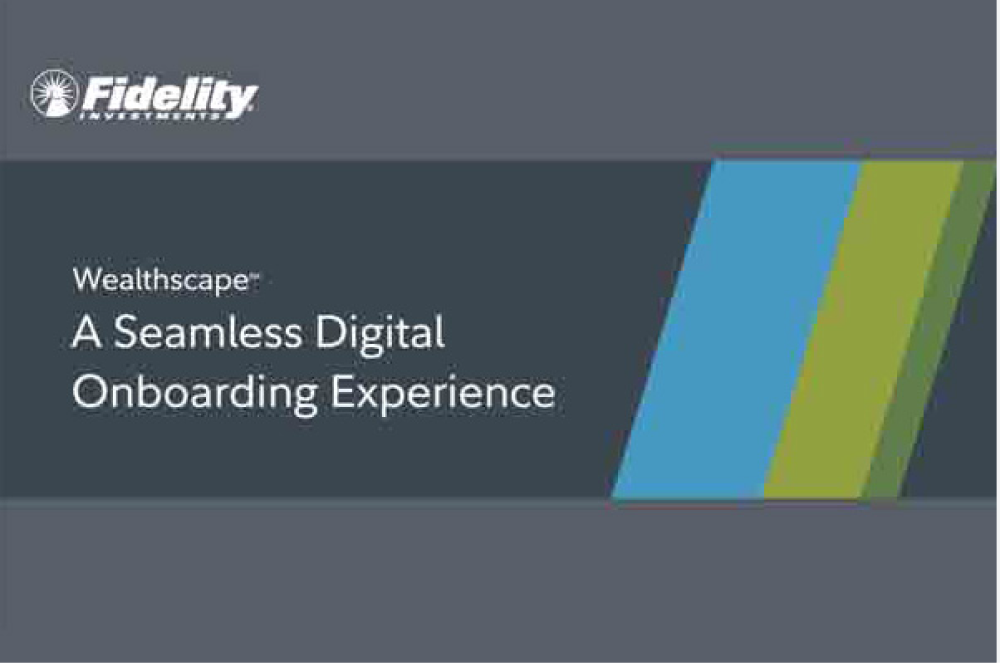
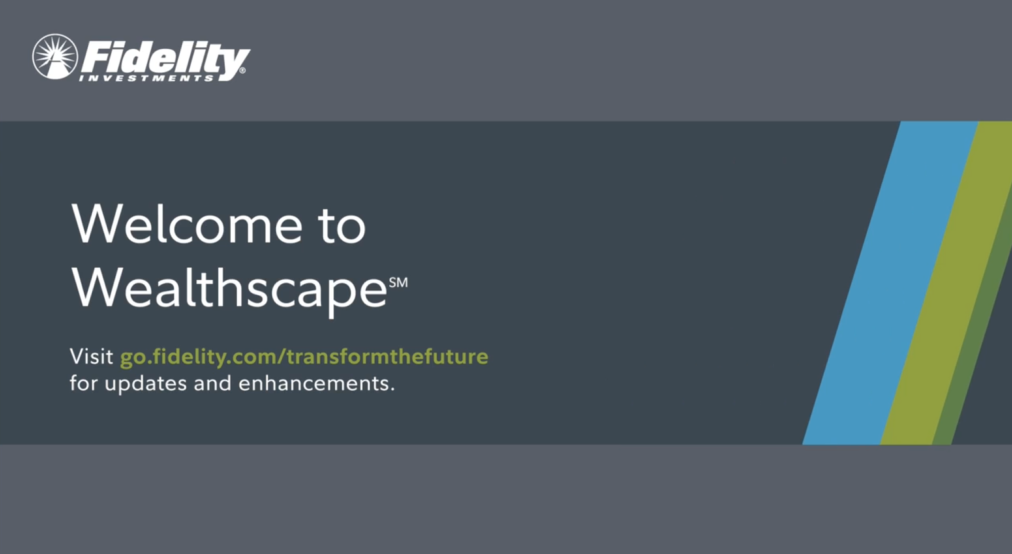
figma list 12/1

diff --git a/src/app/fido-details1/fido-details1.component.html b/src/app/fido-details1/fido-details1.component.html
@@ -12,31 +12,66 @@
   </div>
   <div class="content-container">
     <div class="project-title mt-5">
-      <h5>Wealth Central Investment Platform at Fidelity Investments</h5>
+      <h5>From WealthCentral to Wealthscape at Fidelity</h5>
     </div>
     <div class="project-sub-title mb-3">
       <p>
-        Transforming Wealth Central into Wealthscape with innovative advisory
-        features. Here's how we made a difference:
+        Transforming Wealth Central into <strong>Wealthscape</strong> with
+        innovative advisory features. Here's how we made a difference:
       </p>
     </div>
     <div class="project-body1">
       <div class="image-title mt-5 mb-2">
         <h6>UX Redesign & Strategic Web Refresh</h6>
       </div>
+      <a
+        href="https://clearingcustody.fidelity.com/app/video/9910734/video-demo-wealthscape-investor"
+        target="_blank"
+      >
+        <img
+          class="img-fluid"
+          id="workflow-diagram"
+          src="assets/wealthscape.png"
+          alt="workflow diagram"
+        />
+      </a>
+    </div>
+    <div class="project-body3">
       <div class="image-subtitle mt-5 mb-2">
-        <p class="subtitle">Today's Wealthscape (Live)</p>
+        <p class="subtitle">Wireframes for StreetScape Web Refresh</p>
       </div>
+      <p class="dark-text mt-3 mb-5">
+        At Fidelity, as the <strong>UX Lead</strong> for Wealth Central, I
+        championed the platform's evolution through a
+        <strong>strategic Web Refresh</strong>, significantly enhancing its
+        <strong>design and usability</strong>.<br /><br />
+        This journey involved a <strong>user-centered design process</strong>,
+        grounded in
+        <strong>iterative testing and continuous refinement</strong>, focused on
+        optimizing the <strong>user interface</strong> and enriching
+        <strong>functionality</strong>.<br /><br />
+        The outcome was a suite of
+        <strong>sophisticated desktop and mobile applications</strong>,
+        characterized by their <strong>intuitive user experience</strong>,
+        leading to increased <strong>user engagement and satisfaction</strong>, and solidifying
+        Fidelity's position as a <strong>fintech industry leader</strong>.
+      </p>
       <img
         class="img-fluid"
         id="workflow-diagram"
-        src="assets/wealthscape.png"
+        src="assets/notes-1.png"
+        alt="workflow diagram"
+      />
+      <img
+        class="img-fluid mt-5 mb-3"
+        id="workflow-diagram"
+        src="assets/notes-2.png"
         alt="workflow diagram"
       />
     </div>
     <div class="project-body2 mt-5">
       <div class="image-subtitle mt-5 mb-2">
-        <p class="subtitle">WealthCentral - The App on iPad</p>
+        <p class="subtitle">WealthCentral on iPad</p>
       </div>
       <img
         class="img-fluid"
@@ -57,44 +92,9 @@
         alt="workflow diagram"
       />
     </div>
-    <div class="project-body3">
-      <div class="image-subtitle mt-5 mb-2">
-        <p class="subtitle">
-          Wireframes for StreetScape Web Refresh
-        </p>
-      </div>
-      <p class="dark-text mt-3 mb-5">
-        At Fidelity, as the <strong>UX Lead</strong> for Wealth Central, I
-        championed the platform's evolution through a
-        <strong>strategic Web Refresh</strong>, significantly enhancing its
-        <strong>design and usability</strong>.<br /><br />
-        This journey involved a <strong>user-centered design process</strong>,
-        grounded in
-        <strong>iterative testing and continuous refinement</strong>, focused on
-        optimizing the <strong>user interface</strong> and enriching
-        <strong>functionality</strong>.<br /><br />
-        The outcome was a suite of
-        <strong>sophisticated desktop and mobile applications</strong>,
-        characterized by their <strong>intuitive user experience</strong>,
-        leading to increased user engagement and satisfaction, and solidifying
-        Fidelity's position as a <strong>fintech industry leader</strong>.
-      </p>
-      <img
-        class="img-fluid"
-        id="workflow-diagram"
-        src="assets/notes-1.png"
-        alt="workflow diagram"
-      />
-      <img
-        class="img-fluid mt-5 mb-3"
-        id="workflow-diagram"
-        src="assets/notes-2.png"
-        alt="workflow diagram"
-      />
-    </div>
     <div class="project-body4">
       <div class="image-subtitle mt-5 mb-2">
-        <p class="subtitle">Comp - Login for Desktop</p>
+        <p class="subtitle">Comps: Shaping WealthCentral's Original Vision</p>
       </div>
 
       <img
@@ -107,7 +107,7 @@
 
     <div class="project-body5">
       <div class="image-subtitle mt-5 mb-2">
-        <p class="subtitle">Wireframes - Early Sketches</p>
+        <p class="subtitle">Wireframes: Shaping WealthCentral's Original Vision</p>
       </div>
 
       <img
@@ -124,7 +124,12 @@
       />
     </div>
     <div class="back-up mt-3">
-      <a href="javascript:void(0)" (click)="scrollToTop()" style="text-decoration: none; color: #2779F6;">To Top</a>
+      <a
+        href="javascript:void(0)"
+        (click)="scrollToTop()"
+        style="text-decoration: none; color: #2779f6"
+        >To Top</a
+      >
     </div>
   </div>
   <div class="disclaimer-container">

diff --git a/src/app/bofa-projects/bofa-projects.component.html b/src/app/bofa-projects/bofa-projects.component.html
@@ -76,8 +76,8 @@
         </div>
         <div class="project-sub-title">
           <p>
-            Leading the BankAmeriDeals project, I focused on unifying the native
-            app and responsive web experiences to enhance consistency and user
+            Leading the BankAmeriDeals project, I focused on unifying the
+            responsive web experiences to enhance consistency and user
             engagement in our community.
           </p>
         </div>

diff --git a/src/app/aetna-details1/aetna-details1.component.html b/src/app/aetna-details1/aetna-details1.component.html
@@ -96,8 +96,7 @@
       <p class="disclaimer">
         In compliance with my non-disclosure agreement, I've removed and
         disguised confidential data from this case study. The views expressed
-        here are solely mine and may not represent those of Fidelity
-        Investments.
+        here are solely mine and may not represent those of Aetna.
       </p>
     </div>
   </div>

diff --git a/src/app/aetna-details2/aetna-details2.component.html b/src/app/aetna-details2/aetna-details2.component.html
@@ -70,8 +70,7 @@
       <p class="disclaimer">
         In compliance with my non-disclosure agreement, I've removed and
         disguised confidential data from this case study. The views expressed
-        here are solely mine and may not represent those of Fidelity
-        Investments.
+        here are solely mine and may not represent those of Aetna.
       </p>
     </div>
   </div>
